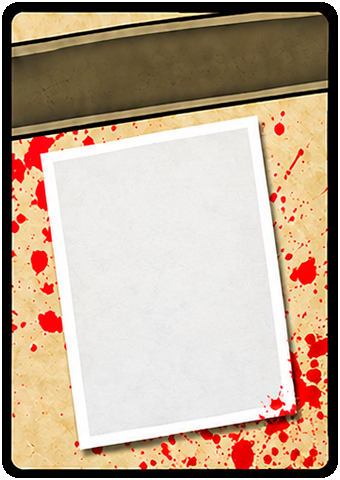
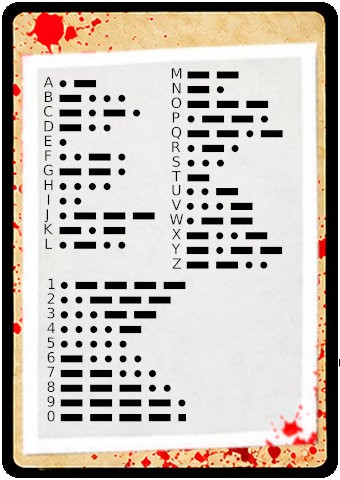
feat: anadir Pistas M (tarjeta personal), N (nota post-it) y O (movil desechable en cubiertos) con vista especial de imagen

diff --git a/src/js/main.js b/src/js/main.js
@@ -19,6 +19,12 @@ class ScapeRoomApp {
       localStorage.setItem("scaperoom_clues", JSON.stringify(this.unlockedClues));
     }
 
+    // Asegurar que si PISTA-N ya estaba desbloqueada, PISTA-O también esté en el mazo
+    if (this.unlockedClues.includes("PISTA-N") && !this.unlockedClues.includes("PISTA-O")) {
+      this.unlockedClues.push("PISTA-O");
+      localStorage.setItem("scaperoom_clues", JSON.stringify(this.unlockedClues));
+    }
+
     // Asignar base trasera de pergamino fija por sesión si no existe
     this.savedBackBases = JSON.parse(localStorage.getItem("scaperoom_back_bases") || "{}");
 
@@ -493,6 +499,12 @@ class ScapeRoomApp {
       const clue = CLUES[clueId];
       if (!clue) return;
 
+      const isSpecialViewer = Boolean(
+        clue.specialBackImage &&
+        clue.specialViewChars &&
+        clue.specialViewChars.includes(this.selectedCharId)
+      );
+
       const clueSlide = document.createElement("div");
       clueSlide.className = "game-card-slide";
       clueSlide.id = `slide-clue-${clue.id.toLowerCase()}`;
@@ -505,56 +517,62 @@ class ScapeRoomApp {
             </div>
 
             <!-- Cara Trasera del Objeto (Detalles e Información) -->
-            <div class="flip-card-back clue-back-face" style="background-image: url('src/assets/images/tarjetas/${clue.backBase}');">
+            <div class="flip-card-back clue-back-face" style="background-image: url('${(isSpecialViewer && clue.specialBackImage) ? clue.specialBackImage : `src/assets/images/tarjetas/${clue.backBase}`}');">
               
               <!-- Letra Indicadora en la Esquina Superior (Identificador para sobres de pistas) -->
-              <div class="clue-corner-letter" title="Pista ${clue.letter}">
+              <div class="clue-corner-letter" title="Pista ${clue.letter}" style="z-index: 10;">
                 <span>${clue.letter}</span>
               </div>
 
-              <!-- Escudo de Confidencialidad para Pistas Privadas (Ojito) -->
-              ${clue.isPrivate ? `
-                <div class="private-shield-overlay" id="shield-${clue.id}" style="background-image: url('src/assets/images/tarjetas/${clue.backBase}');">
-                  <div class="shield-eye-icon-box">
-                    <svg class="shield-eye-icon" xmlns="http://www.w3.org/2000/svg" viewBox="0 0 24 24" fill="none" stroke="currentColor" stroke-width="2.5" stroke-linecap="round" stroke-linejoin="round">
-                      <path d="M17.94 17.94A10.07 10.07 0 0 1 12 20c-7 0-11-8-11-8a18.45 18.45 0 0 1 5.06-5.94M9.9 4.24A9.12 9.12 0 0 1 12 4c7 0 11 8 11 8a18.5 18.5 0 0 1-2.16 3.19m-6.72-1.07a3 3 0 1 1-4.24-4.24"></path>
-                      <line x1="1" y1="1" x2="23" y2="23"></line>
-                    </svg>
+              ${(isSpecialViewer && clue.specialBackImage) ? `
+                <div class="card-special-fullscreen-back" style="position: absolute; inset: 0; border-radius: inherit; overflow: hidden; z-index: 2;">
+                  <img src="${clue.specialBackImage}" alt="${clue.title}" style="width: 100%; height: 100%; object-fit: cover; display: block;" />
+                </div>
+              ` : `
+                <!-- Escudo de Confidencialidad para Pistas Privadas (Ojito) -->
+                ${clue.isPrivate ? `
+                  <div class="private-shield-overlay" id="shield-${clue.id}" style="background-image: url('src/assets/images/tarjetas/${clue.backBase}');">
+                    <div class="shield-eye-icon-box">
+                      <svg class="shield-eye-icon" xmlns="http://www.w3.org/2000/svg" viewBox="0 0 24 24" fill="none" stroke="currentColor" stroke-width="2.5" stroke-linecap="round" stroke-linejoin="round">
+                        <path d="M17.94 17.94A10.07 10.07 0 0 1 12 20c-7 0-11-8-11-8a18.45 18.45 0 0 1 5.06-5.94M9.9 4.24A9.12 9.12 0 0 1 12 4c7 0 11 8 11 8a18.5 18.5 0 0 1-2.16 3.19m-6.72-1.07a3 3 0 1 1-4.24-4.24"></path>
+                        <line x1="1" y1="1" x2="23" y2="23"></line>
+                      </svg>
+                    </div>
+
+                    <h3 class="shield-title">¿ESTÁS SEGURO?</h3>
+                    <p class="shield-warning">
+                      Esta pista contiene información reservada, no se puede compartir.
+                    </p>
+
+                    <button class="btn-reveal-sensitive" data-target-shield="shield-${clue.id}" type="button">
+                      <svg xmlns="http://www.w3.org/2000/svg" width="18" height="18" viewBox="0 0 24 24" fill="none" stroke="currentColor" stroke-width="2.5" stroke-linecap="round" stroke-linejoin="round">
+                        <path d="M1 12s4-8 11-8 11 8 11 8-4 8-11 8-11-8-11-8z"></path>
+                        <circle cx="12" cy="13" r="3"></circle>
+                      </svg>
+                      <span>Clica para ver</span>
+                    </button>
+                  </div>
+                ` : ""}
+
+                <div class="card-back-content">
+                  <div class="card-back-header">
+                    <h4 class="card-back-name">${clue.title}</h4>
+                  </div>
+                  <p class="card-back-bio">${clue.desc}</p>
+
+                  <div class="clue-table-pickup-notice" style="margin-top: 14px; padding: 10px 12px; background: #991b1b; color: #ffffff; border-radius: 4px; text-align: center; font-weight: bold; font-size: 11px; letter-spacing: 0.5px; display: flex; align-items: center; justify-content: center; gap: 6px;">
+                    <svg width="14" height="14" viewBox="0 0 24 24" fill="none" stroke="currentColor" stroke-width="2.5"><circle cx="12" cy="12" r="10"/><line x1="12" y1="8" x2="12" y2="12"/><line x1="12" y1="16" x2="12.01" y2="16"/></svg>
+                    <span>VE A RECOGER LAS PISTAS A LA MESA</span>
                   </div>
 
-                  <h3 class="shield-title">¿ESTÁS SEGURO?</h3>
-                  <p class="shield-warning">
-                    Esta pista contiene información reservada, no se puede compartir.
-                  </p>
-
-                  <button class="btn-reveal-sensitive" data-target-shield="shield-${clue.id}" type="button">
-                    <svg xmlns="http://www.w3.org/2000/svg" width="18" height="18" viewBox="0 0 24 24" fill="none" stroke="currentColor" stroke-width="2.5" stroke-linecap="round" stroke-linejoin="round">
-                      <path d="M1 12s4-8 11-8 11 8 11 8-4 8-11 8-11-8-11-8z"></path>
-                      <circle cx="12" cy="13" r="3"></circle>
-                    </svg>
-                    <span>Clica para ver</span>
-                  </button>
+                  ${clue.isPrivate ? `
+                    <button class="btn-reshield-sensitive" data-shield-id="shield-${clue.id}" type="button">
+                      <svg xmlns="http://www.w3.org/2000/svg" width="13" height="13" viewBox="0 0 24 24" fill="none" stroke="currentColor" stroke-width="2"><path d="M17.94 17.94A10.07 10.07 0 0 1 12 20c-7 0-11-8-11-8a18.45 18.45 0 0 1 5.06-5.94M9.9 4.24A9.12 9.12 0 0 1 12 4c7 0 11 8 11 8a18.5 18.5 0 0 1-2.16 3.19m-6.72-1.07a3 3 0 1 1-4.24-4.24"></path><line x1="1" y1="1" x2="23" y2="23"></line></svg>
+                      Ocultar pista confidencial
+                    </button>
+                  ` : ""}
                 </div>
-              ` : ""}
-
-              <div class="card-back-content">
-                <div class="card-back-header">
-                  <h4 class="card-back-name">${clue.title}</h4>
-                </div>
-                <p class="card-back-bio">${clue.desc}</p>
-
-                <div class="clue-table-pickup-notice" style="margin-top: 14px; padding: 10px 12px; background: #991b1b; color: #ffffff; border-radius: 4px; text-align: center; font-weight: bold; font-size: 11px; letter-spacing: 0.5px; display: flex; align-items: center; justify-content: center; gap: 6px;">
-                  <svg width="14" height="14" viewBox="0 0 24 24" fill="none" stroke="currentColor" stroke-width="2.5"><circle cx="12" cy="12" r="10"/><line x1="12" y1="8" x2="12" y2="12"/><line x1="12" y1="16" x2="12.01" y2="16"/></svg>
-                  <span>VE A RECOGER LAS PISTAS A LA MESA</span>
-                </div>
-
-                ${clue.isPrivate ? `
-                  <button class="btn-reshield-sensitive" data-shield-id="shield-${clue.id}" type="button">
-                    <svg xmlns="http://www.w3.org/2000/svg" width="13" height="13" viewBox="0 0 24 24" fill="none" stroke="currentColor" stroke-width="2"><path d="M17.94 17.94A10.07 10.07 0 0 1 12 20c-7 0-11-8-11-8a18.45 18.45 0 0 1 5.06-5.94M9.9 4.24A9.12 9.12 0 0 1 12 4c7 0 11 8 11 8a18.5 18.5 0 0 1-2.16 3.19m-6.72-1.07a3 3 0 1 1-4.24-4.24"></path><line x1="1" y1="1" x2="23" y2="23"></line></svg>
-                    Ocultar pista confidencial
-                  </button>
-                ` : ""}
-              </div>
+              `}
 
             </div>
           </div>
@@ -1114,7 +1132,7 @@ class ScapeRoomApp {
           this.closeCodeModal();
           this.unlockClue(resolved);
         } else {
-          alert(`Código no reconocido ("${val}"). Introduce un código válido (A - J).`);
+          alert(`Código no reconocido ("${val}"). Introduce un código válido (A - O).`);
         }
       });
     }

diff --git a/src/js/data/clues.js b/src/js/data/clues.js
@@ -160,6 +160,48 @@ export const CLUES = {
     desc: "La pintura se ha derramado. Parece que el que estaba en el jardín estaba pintando y ha tenido un accidente.",
     isPrivate: false,
     tablePickup: true
+  },
+  "PISTA-M": {
+    id: "PISTA-M",
+    letter: "M",
+    num: 12,
+    token: "M",
+    title: "Tarjeta de personal",
+    category: "Acceso / Seguridad",
+    cardImage: "src/assets/images/objetos/card-obj-7.png",
+    backBase: "card-back-base-2.png",
+    desc: "Tarjeta magnética de acceso del personal de servicio. Permite desbloquear la puerta de la cocina.",
+    isPrivate: false,
+    tablePickup: true
+  },
+  "PISTA-N": {
+    id: "PISTA-N",
+    letter: "N",
+    num: 13,
+    token: "N",
+    title: "Nota manuscrita",
+    category: "Nota / Mensaje",
+    cardImage: "src/assets/images/objetos/card-obj-8.png",
+    backBase: "card-back-base-3.png",
+    desc: "Una pequeña nota tipo post-it encontrada en la cocina con una anotación apresurada.",
+    isPrivate: false,
+    tablePickup: true,
+    specialBackImage: "src/assets/images/tarjetas/card-esp-frame-3.png",
+    specialViewChars: [5, 6, 7],
+    linkedClues: ["PISTA-O"]
+  },
+  "PISTA-O": {
+    id: "PISTA-O",
+    letter: "O",
+    num: 14,
+    token: "O",
+    title: "Móvil desechable",
+    category: "Comunicaciones",
+    cardImage: "src/assets/images/objetos/card-obj-5.png",
+    backBase: "card-back-base-1.png",
+    desc: "Móvil desechable. Estaba escondido en el cajón de los cubiertos.",
+    isPrivate: false,
+    tablePickup: true
   }
   /*
   "PISTA-K": {
@@ -247,6 +289,29 @@ export function resolveClueId(rawInput) {
     "bote verde": "PISTA-L",
     "jardin": "PISTA-L",
     "jardín": "PISTA-L",
+
+    "tarjeta": "PISTA-M",
+    "tarjeta de personal": "PISTA-M",
+    "tarjeta personal": "PISTA-M",
+    "personal": "PISTA-M",
+    "tarjeta acceso": "PISTA-M",
+    "acceso cocina": "PISTA-M",
+    "cocina": "PISTA-M",
+
+    "nota": "PISTA-N",
+    "postit": "PISTA-N",
+    "post-it": "PISTA-N",
+    "nota post-it": "PISTA-N",
+    "nota adhesiva": "PISTA-N",
+    "nota manuscrita": "PISTA-N",
+
+    "movil": "PISTA-O",
+    "móvil": "PISTA-O",
+    "movil desechable": "PISTA-O",
+    "móvil desechable": "PISTA-O",
+    "telefono": "PISTA-O",
+    "teléfono": "PISTA-O",
+    "cubiertos": "PISTA-O",
 
     "buzon": "PISTA-K",
     "buzón": "PISTA-K"

diff --git a/index.html b/index.html
@@ -123,7 +123,7 @@
         <button class="btn-modal-close" id="btn-close-code-modal" aria-label="Cerrar">&times;</button>
       </div>
       <form id="form-manual-code" class="form-manual-code">
-        <input type="text" id="input-manual-code" class="input-code" placeholder="Código (A - J)" autocomplete="off" maxlength="20" />
+        <input type="text" id="input-manual-code" class="input-code" placeholder="Código (A - O)" autocomplete="off" maxlength="20" />
         <button type="submit" class="btn-submit-code">Desbloquear</button>
       </form>
     </div>
